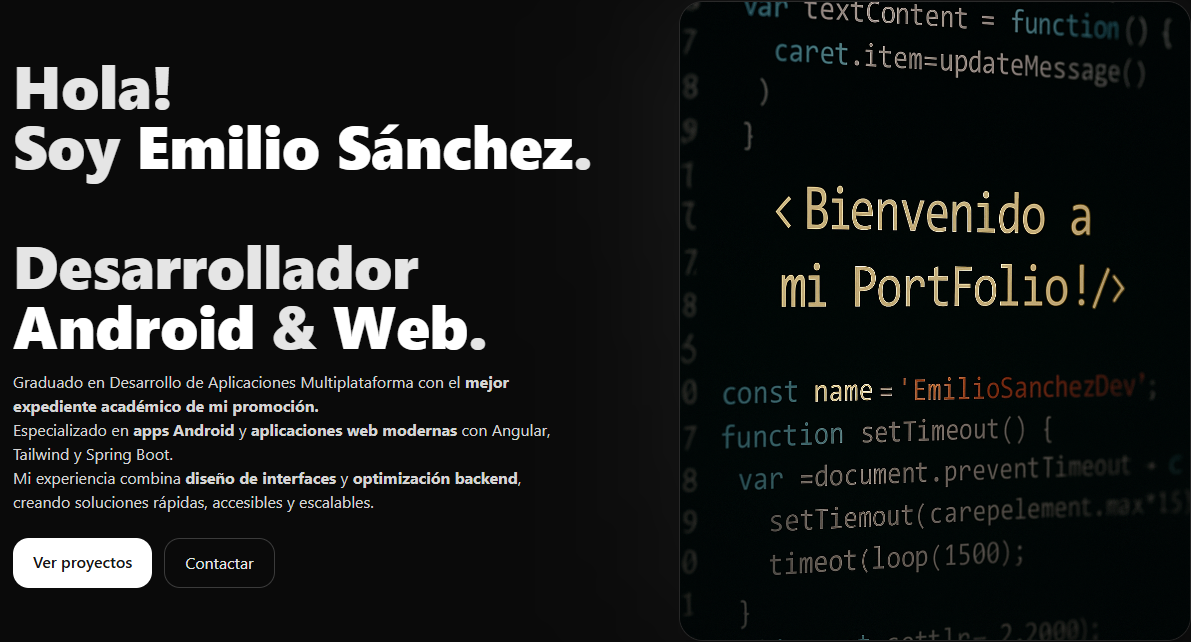
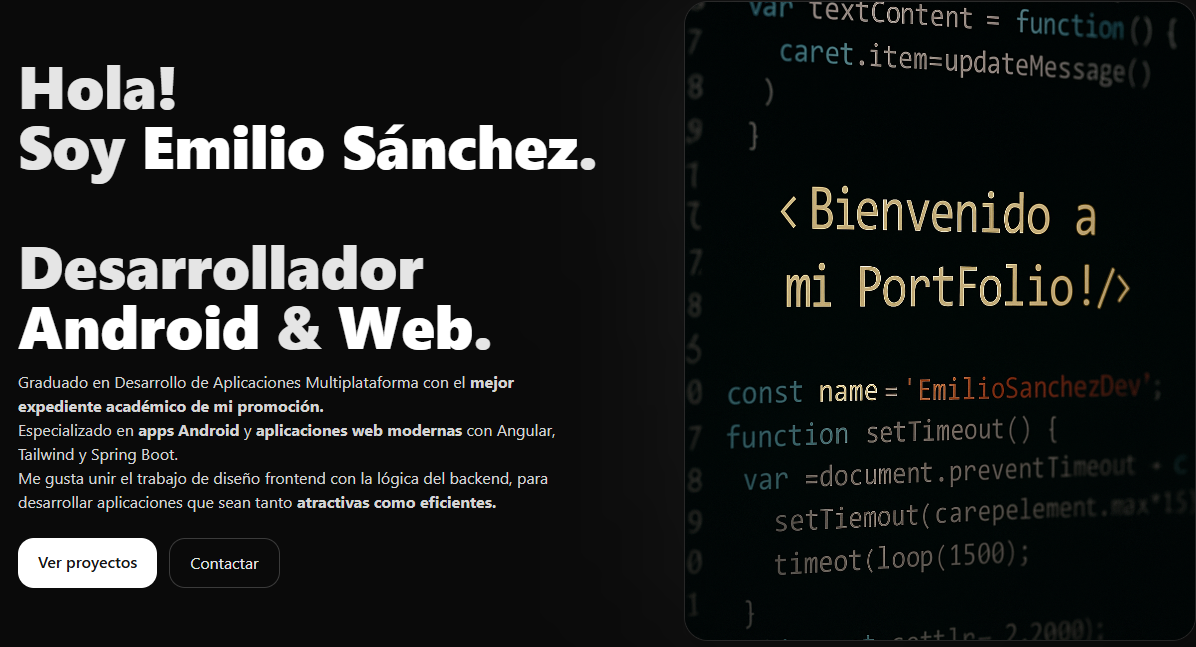
preview-home photo

diff --git a/src/app/pages/home/home.ts b/src/app/pages/home/home.ts
@@ -20,7 +20,7 @@ import { NgOptimizedImage } from '@angular/common';
           <br>
           Especializado en <b>apps Android</b> y <b>aplicaciones web modernas</b> con Angular, Tailwind y Spring Boot.
           <br>
-          Mi experiencia combina <b>diseño de interfaces</b> y <b>optimización backend</b>, creando soluciones rápidas, accesibles y escalables.
+          Me gusta unir el trabajo de diseño frontend con la lógica del backend, para desarrollar aplicaciones que sean tanto <b>atractivas como eficientes.</b>
         </p>
 
         <div class="mt-6 flex gap-3">
